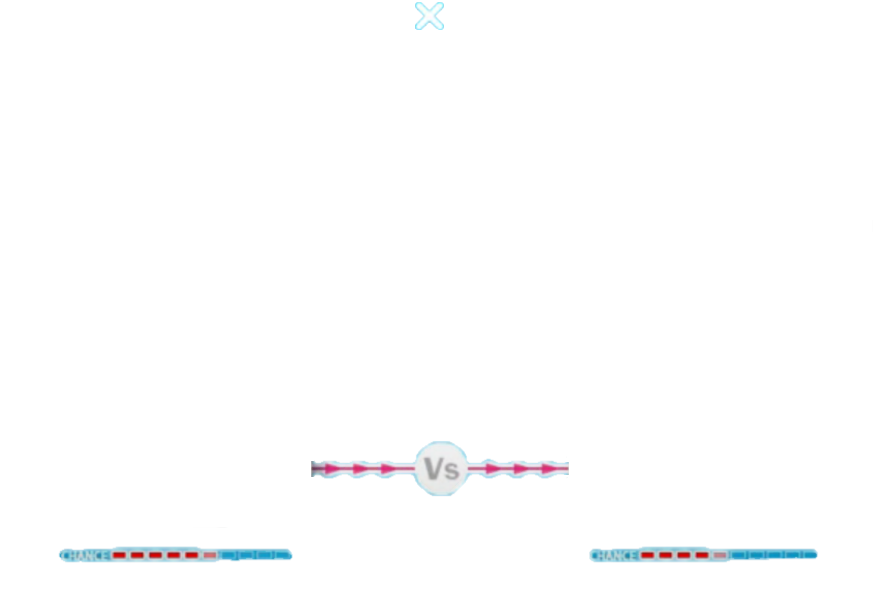
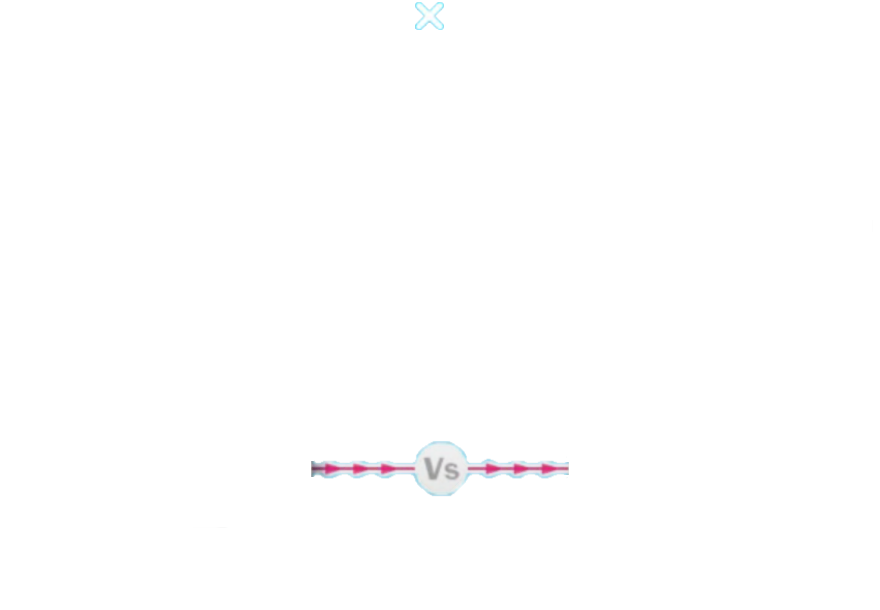
Added in chance bars. Also centered the fight-type in the fight-offer page.

Changed region(s): [[0.675, 0.8721, 0.9511, 0.9344], [0.0614, 0.8721, 0.3375, 0.9344]]

diff --git a/src/main/resources/templates/parts/fight/fight-request.html b/src/main/resources/templates/parts/fight/fight-request.html
@@ -25,6 +25,23 @@
         </form>
     </div>
 
+    <div class="my-chance-box">
+        <div class="chance-bars" th:each="i: ${#numbers.sequence(1, MyChanceBarAmount)}">
+            <img th:src="@{/images/fight/request/chance-bar-full.png}" alt="chance-bar-full">
+        </div>
+        <div class="chance-bars" th:each="i: ${#numbers.sequence(1, (10 - MyChanceBarAmount))}">
+            <img th:src="@{/images/fight/request/chance-bar-empty.png}" alt="chance-bar-empty">
+        </div>
+    </div>
+    <div class="opponent-chance-box">
+        <div class="chance-bars" th:each="i: ${#numbers.sequence(1, (10 - MyChanceBarAmount))}">
+            <img th:src="@{/images/fight/request/chance-bar-full.png}" alt="chance-bar-full">
+        </div>
+        <div class="chance-bars" th:each="i: ${#numbers.sequence(1, MyChanceBarAmount)}">
+            <img th:src="@{/images/fight/request/chance-bar-empty.png}" alt="chance-bar-empty">
+        </div>
+    </div>
+
 
     <div class="fight-offer-request">
         <img th:src="@{/images/fight/request/general-option-fight-request.png}" alt="general-option-fight-request">

diff --git a/src/main/resources/templates/parts/fight/fight-offer.html b/src/main/resources/templates/parts/fight/fight-offer.html
@@ -20,6 +20,23 @@
         </form>
     </div>
 
+    <div class="my-chance-box">
+        <div class="chance-bars" th:each="i: ${#numbers.sequence(1, MyChanceBarAmount)}">
+            <img th:src="@{/images/fight/request/chance-bar-full.png}" alt="chance-bar-full">
+        </div>
+        <div class="chance-bars" th:each="i: ${#numbers.sequence(1, (10 - MyChanceBarAmount))}">
+            <img th:src="@{/images/fight/request/chance-bar-empty.png}" alt="chance-bar-empty">
+        </div>
+    </div>
+    <div class="opponent-chance-box">
+        <div class="chance-bars" th:each="i: ${#numbers.sequence(1, (10 - MyChanceBarAmount))}">
+            <img th:src="@{/images/fight/request/chance-bar-full.png}" alt="chance-bar-full">
+        </div>
+        <div class="chance-bars" th:each="i: ${#numbers.sequence(1, MyChanceBarAmount)}">
+            <img th:src="@{/images/fight/request/chance-bar-empty.png}" alt="chance-bar-empty">
+        </div>
+    </div>
+
 
     <div class="fight-offer-request">
         <img th:src="@{/images/fight/request/general-option-fight-offer.png}" alt="general-option-fight-offer">

diff --git a/src/main/resources/static/css/parts/fight/fight-offer.css b/src/main/resources/static/css/parts/fight/fight-offer.css
@@ -18,17 +18,30 @@
     opacity: 0;
 }
 
+.my-chance-box {
+    top: 18px;
+}
+
+.opponent-chance-box {
+    top: -2px;
+}
+
 /* end general options */
 
 /* some text */
 
-.fight-type span {
+.fight-type {
     position: relative;
-
-    top: -340px;
-    right: -325px;
-
     text-align: center;
+
+    top: -360px;
+    right: -315px;
+
+    width: 230px;
+    height: 30px;
+}
+
+.fight-type span {
     font-size: 28px;
     font-weight: bold;
     -webkit-text-stroke: 1px white;
@@ -37,7 +50,7 @@
 .nuggets-to-be-paid {
     position: relative;
 
-    top: -170px;
+    top: -180px;
 
     text-align: center;
     font-size: 28px;

diff --git a/src/main/resources/templates/parts/profile/fragments-profile.html b/src/main/resources/templates/parts/profile/fragments-profile.html
@@ -18,6 +18,7 @@
                     <input type="hidden" th:value="1" name="OptionIndex"/>
                     <input type="hidden" th:value="BITE" name="TypeOfFight"/>
                     <input type="hidden" th:value="0" name="NuggetsForAccepting"/>
+                    <input type="hidden" th:value="-1" name="MyChanceBarAmount"/>
                     <button></button>
                 </form>
             </div>

diff --git a/src/main/resources/templates/parts/fight/fragments-fight.html b/src/main/resources/templates/parts/fight/fragments-fight.html
@@ -14,6 +14,7 @@
         <input type="hidden" th:value="${OptionIndex}" name="OptionIndex"/>
         <input type="hidden" th:value="${TypeOfFight}" name="TypeOfFight"/>
         <input type="hidden" th:value="${NuggetsForAccepting}" name="NuggetsForAccepting"/>
+        <input type="hidden" th:value="${MyChanceBarAmount}" name="MyChanceBarAmount"/>
         <button class="next-button"></button>
     </form>
 </div>

diff --git a/src/main/resources/static/css/parts/fight/fight.css b/src/main/resources/static/css/parts/fight/fight.css
@@ -46,4 +46,29 @@ body {
     right: -569px;
 }
 
+.my-chance-box {
+    position: relative;
+
+    top: -37px;
+    right: -112px;
+
+    width: 190px;
+    height: 9px;
+}
+
+.opponent-chance-box {
+    position: relative;
+
+    top: -57px;
+    right: -640px;
+
+    width: 190px;
+    height: 9px;
+}
+
+.chance-bars {
+    float: left;
+    margin-left: 2px;
+}
+
 /* end general-option */

diff --git a/src/main/java/com/fmm/controller/FightController.java b/src/main/java/com/fmm/controller/FightController.java
@@ -1,6 +1,9 @@
 package com.fmm.controller;
 
-import com.fmm.dto.*;
+import com.fmm.dto.BattleForm;
+import com.fmm.dto.FightRequestDto;
+import com.fmm.dto.MessageDto;
+import com.fmm.dto.MonsterDto;
 import com.fmm.model.Message;
 import com.fmm.model.Monster;
 import com.fmm.model.User;
@@ -24,6 +27,8 @@ import java.util.Arrays;
 import java.util.Collections;
 import java.util.List;
 import java.util.Random;
+import java.util.stream.Collectors;
+import java.util.stream.Stream;
 
 @RestController
 @RequestMapping("/fmm")
@@ -56,16 +61,24 @@ public class FightController {
         User myUser = userService.getUser(myId);
 
         User opponentUser = userService.getUser(fightRequestDto.getOpponentUsername());
-        Monster opponentMonster = monsterService.getMonster(opponentUser.getId(), fightRequestDto.getOpponentMonsterName());
+        MonsterDto opponentMonster = convertToDto(monsterService.getMonster(opponentUser.getId(), fightRequestDto.getOpponentMonsterName()));
 
 
-        List<Monster> myMonsters = monsterService.getMonsters(myId);
+        List<MonsterDto> myMonsters = monsterService.getMonsters(myId).stream().map(this::convertToDto).collect(Collectors.toList());
 
+        int myChanceBarAmount = 1;
         int n = fightRequestDto.getN();
-        if (n > myMonsters.size() - 1) {
-            n = 0;
+        if (n >= myMonsters.size()) {
+            fightRequestDto.setN(0);
         } else if (n < 0) {
-            n = myMonsters.size() - 1;
+            fightRequestDto.setN(myMonsters.size() - 1);
+        }
+
+        n = fightRequestDto.getN();
+        if (n != 0) {
+            MonsterDto myCurrentMonster = myMonsters.get(n);
+            myChanceBarAmount = getMyChanceBarAmount(myCurrentMonster, opponentMonster);
+            fightRequestDto.setMyChanceBarAmount(myChanceBarAmount);
         }
 
 
@@ -79,8 +92,23 @@ public class FightController {
         mav.addObject("OptionIndex", fightRequestDto.getOptionIndex());
         mav.addObject("TypeOfFight", fightRequestDto.getTypeOfFight());
         mav.addObject("NuggetsForAccepting", fightRequestDto.getNuggetsForAccepting());
+        mav.addObject("MyChanceBarAmount", myChanceBarAmount);
 
         return mav;
+    }
+
+    private int getMyChanceBarAmount(MonsterDto myCurrentMonster, MonsterDto opponentMonster) {
+        long myTotalStats = myCurrentMonster.getAttack() + myCurrentMonster.getDefence() + myCurrentMonster.getTricks() + myCurrentMonster.getBrains();
+        long opponentTotalStats = opponentMonster.getAttack() + opponentMonster.getDefence() + opponentMonster.getTricks() + opponentMonster.getBrains();
+        int myChanceBarAmount = (int) Math.round(((double) myTotalStats / (myTotalStats + opponentTotalStats) * 10));
+
+        if (myChanceBarAmount <= 0) {
+            myChanceBarAmount = 1;
+        } else if (myChanceBarAmount >= 10) {
+            myChanceBarAmount = 9;
+        }
+
+        return myChanceBarAmount;
     }
 
     @GetMapping("/messages/fight-offer")
@@ -88,9 +116,11 @@ public class FightController {
         Message message = messageService.getMessage(messageId);
         Long myId = userService.getUser(request.getUserPrincipal().getName()).getId();
 
-        List<Monster> myMonsters = Collections.singletonList(monsterService.getMonster(myId, message.getToMonsterName()));
-        Monster opponentMonster = monsterService.getMonster(message.getUser().getId(), message.getFromMonsterName());
+        List<MonsterDto> myMonsters = Stream.of
+                (monsterService.getMonster(myId, message.getToMonsterName())).map(this::convertToDto).collect(Collectors.toList());
+        MonsterDto opponentMonster = convertToDto(monsterService.getMonster(message.getUser().getId(), message.getFromMonsterName()));
 
+        int myChanceBarAmount = getMyChanceBarAmount(myMonsters.get(0), opponentMonster);
 
         ModelAndView mav = new ModelAndView("/parts/fight/fight-offer");
         mav.addObject("Message", message);
@@ -98,6 +128,7 @@ public class FightController {
         mav.addObject("OpponentMonster", opponentMonster);
         mav.addObject("N", 0);
         mav.addObject("OptionIndex", 0);
+        mav.addObject("MyChanceBarAmount", myChanceBarAmount);
 
         return mav;
     }
@@ -140,7 +171,6 @@ public class FightController {
         return mav;
     }
 
-    @Transactional
     @GetMapping("/battle/2")
     public ModelAndView showBattlePagePart2(@ModelAttribute("BattleForm") BattleForm battleForm) {
         ModelAndView mav = new ModelAndView("/parts/fight/battle");
@@ -151,7 +181,6 @@ public class FightController {
         return mav;
     }
 
-    @Transactional
     @GetMapping("/battle/3")
     public ModelAndView showBattlePagePart3(@ModelAttribute("BattleForm") BattleForm battleForm) {
         ModelAndView mav = new ModelAndView("/parts/fight/battle");

diff --git a/src/main/java/com/fmm/dto/FightRequestDto.java b/src/main/java/com/fmm/dto/FightRequestDto.java
@@ -3,11 +3,18 @@ package com.fmm.dto;
 public class FightRequestDto {
 
     private String opponentUsername;
+
     private String opponentMonsterName;
+
     private int n;
+
     private int optionIndex;
+
     private String typeOfFight;
+
     private long nuggetsForAccepting;
+
+    private int myChanceBarAmount;
 
     public String getOpponentUsername() {
         return opponentUsername;
@@ -55,5 +62,13 @@ public class FightRequestDto {
 
     public void setNuggetsForAccepting(long nuggetsForAccepting) {
         this.nuggetsForAccepting = nuggetsForAccepting;
+    }
+
+    public int getMyChanceBarAmount() {
+        return myChanceBarAmount;
+    }
+
+    public void setMyChanceBarAmount(int myChanceBarAmount) {
+        this.myChanceBarAmount = myChanceBarAmount;
     }
 }

diff --git a/src/main/java/com/fmm/controller/OpponentProfileController.java b/src/main/java/com/fmm/controller/OpponentProfileController.java
@@ -63,6 +63,10 @@ public class OpponentProfileController {
 
         int totalPages = 1 + (aliveMonsterList.size() / 6);
 
+        if (totalPages >= 8) {
+            totalPages = 7;
+        }
+
         ModelAndView mav = new ModelAndView("/parts/profile/opponent-profile");
         mav.addObject("User", opponentUser);
         mav.addObject("LoggedInUsername", loggedInUsername);
@@ -96,6 +100,10 @@ public class OpponentProfileController {
         }
 
         int totalPages = 1 + (aliveMonsterList.size() / 6);
+
+        if (totalPages >= 8) {
+            totalPages = 7;
+        }
 
         ModelAndView mav = new ModelAndView("/parts/profile/opponent-profile");
         mav.addObject("User", opponentUser);

diff --git a/src/main/java/com/fmm/controller/MyProfileController.java b/src/main/java/com/fmm/controller/MyProfileController.java
@@ -63,6 +63,10 @@ public class MyProfileController {
 
         int totalPages = 1 + (aliveMonsterList.size() / 6);
 
+        if (totalPages >= 8) {
+            totalPages = 7;
+        }
+
         ModelAndView mav = new ModelAndView("/parts/profile/my-profile");
         mav.addObject("User", user);
         mav.addObject("Monsters", monsterDtoList);
@@ -92,6 +96,10 @@ public class MyProfileController {
         }
 
         int totalPages = 1 + (aliveMonsterList.size() / 6);
+
+        if (totalPages >= 8) {
+            totalPages = 7;
+        }
 
         ModelAndView mav = new ModelAndView("/parts/profile/my-profile");
         mav.addObject("User", user);
